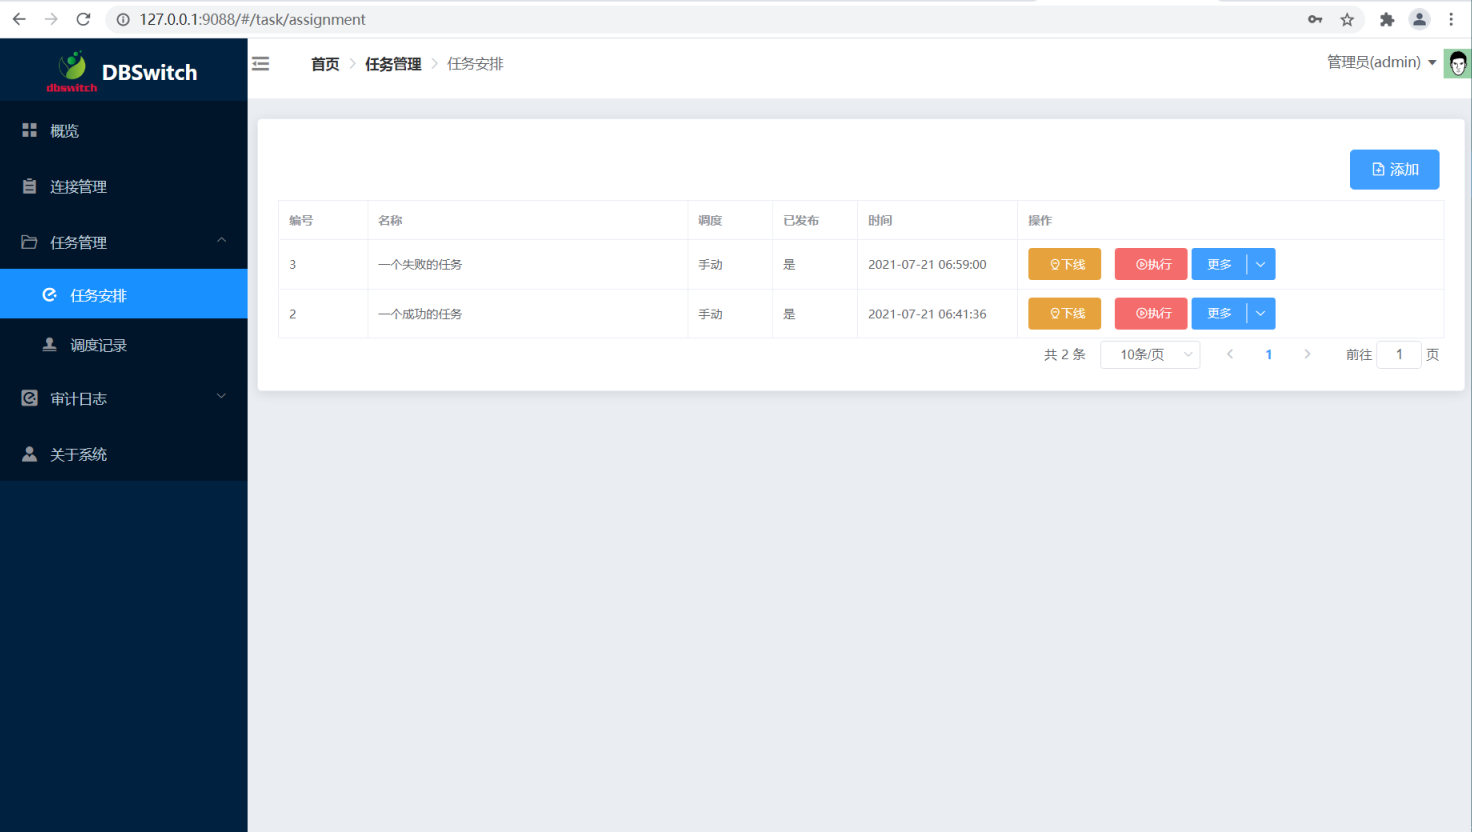
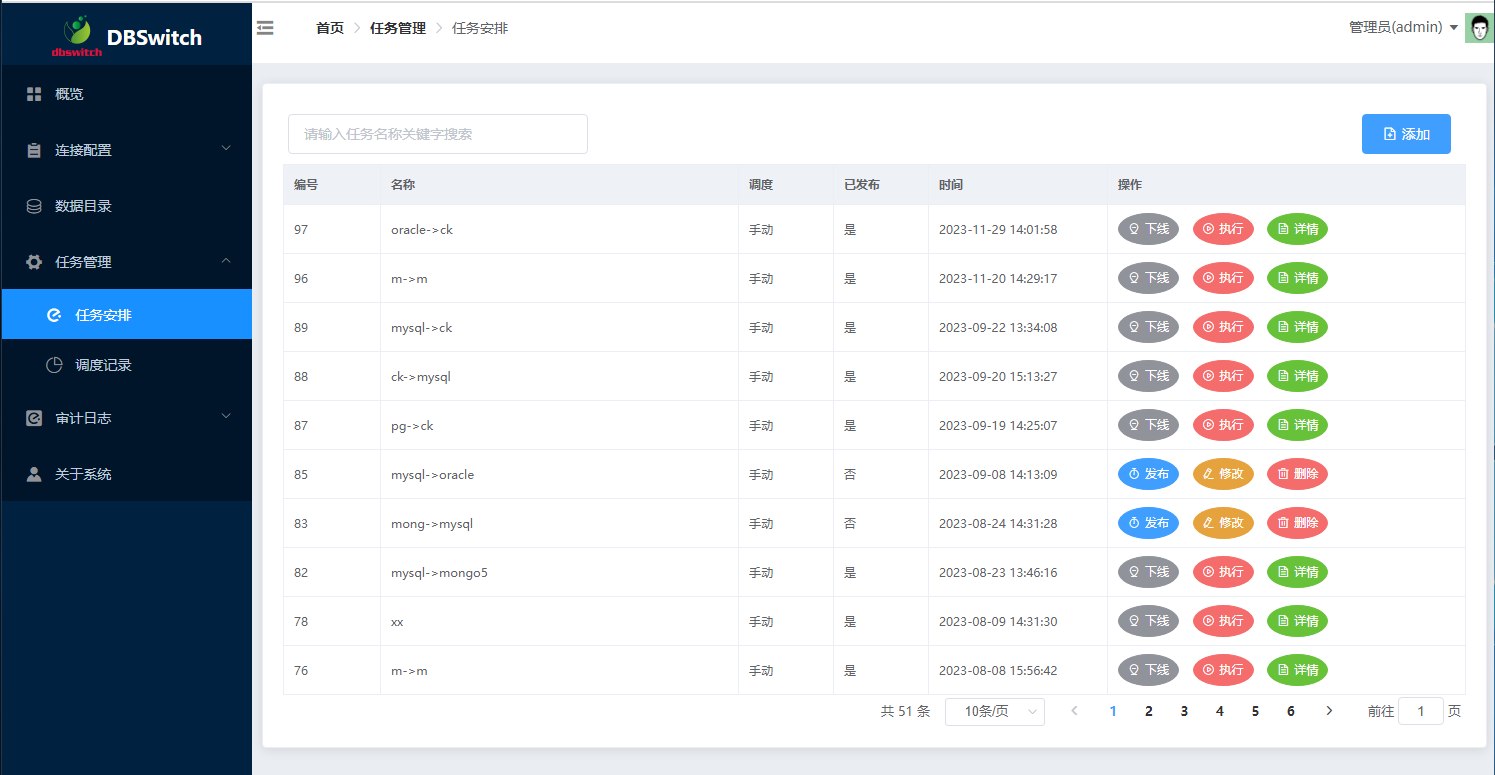
修复几个问题

diff --git a/dbswitch-admin/src/main/java/com/gitee/dbswitch/admin/service/ScheduleService.java b/dbswitch-admin/src/main/java/com/gitee/dbswitch/admin/service/ScheduleService.java
@@ -18,6 +18,7 @@ import com.gitee.dbswitch.admin.type.JobStatusEnum;
 import com.gitee.dbswitch.admin.type.ScheduleModeEnum;
 import com.gitee.dbswitch.common.event.TaskEventHub;
 import com.gitee.dbswitch.common.util.UuidUtils;
+import com.google.common.collect.Sets;
 import java.sql.Timestamp;
 import java.util.Map;
 import java.util.Objects;
@@ -111,13 +112,22 @@ public class ScheduleService {
     AssignmentTaskEntity task = assignmentTaskDAO.getById(taskId);
     if (ScheduleModeEnum.MANUAL == scheduleMode) {
       manualRunEvenHub.notify(evenName, taskId, jobKeyName);
-      //scheduleOnce(jobBuilder.storeDurably(false).build(), triggerKey);
     } else {
       scheduleCron(jobBuilder.storeDurably(true).build(), triggerKey, task.getCronExpression());
-    }
 
-    task.setJobKey(jobKeyName);
-    assignmentTaskDAO.updateById(task);
+      task.setJobKey(jobKeyName);
+      assignmentTaskDAO.updateById(task);
+    }
+  }
+
+  public void cancelManualJob(Long taskId) {
+    Sets.newHashSet(taskRunnableMap.values()).forEach(
+        runnable -> {
+          if (taskId == runnable.getTaskId()) {
+            runnable.interrupt();
+          }
+        }
+    );
   }
 
   public void cancelByJobKey(String jobKeyName) {
@@ -164,24 +174,6 @@ public class ScheduleService {
       assignmentJobDAO.updateSelective(assignmentJobEntity);
     }
   }
-
-//  private void scheduleOnce(JobDetail jobDetail, TriggerKey triggerKey) {
-//    Scheduler scheduler = schedulerFactoryBean.getScheduler();
-//    Trigger simpleTrigger = TriggerBuilder.newTrigger()
-//        .startAt(new Date())
-//        .withIdentity(triggerKey)
-//        .withSchedule(SimpleScheduleBuilder.simpleSchedule().withRepeatCount(0))
-//        .build();
-//
-//    try {
-//      scheduler.scheduleJob(jobDetail, simpleTrigger);
-//    } catch (SchedulerException e) {
-//      log.error("Quartz schedule task by manual failed, taskId: {}.",
-//          jobDetail.getJobDataMap().get(JobExecutorService.TASK_ID), e);
-//      throw new RuntimeException(e);
-//    }
-//
-//  }
 
   private void scheduleCron(JobDetail jobDetail, TriggerKey triggerKey, String cronExpression) {
     Scheduler scheduler = schedulerFactoryBean.getScheduler();

diff --git a/dbswitch-admin/src/main/java/com/gitee/dbswitch/admin/service/AssignmentService.java b/dbswitch-admin/src/main/java/com/gitee/dbswitch/admin/service/AssignmentService.java
@@ -85,8 +85,12 @@ public class AssignmentService {
         .convert(assignmentTaskDAO.getById(assignment.getId()));
   }
 
-  @Transactional(rollbackFor = Exception.class)
   public void deleteAssignment(Long id) {
+    AssignmentTaskEntity taskEntity = assignmentTaskDAO.getById(id);
+    if (null != taskEntity && null != taskEntity.getPublished() && taskEntity.getPublished()) {
+      throw new DbswitchException(ResultCode.ERROR_RESOURCE_HAS_DEPLOY,
+          "已经发布的任务需先下线后方可执行删除操作");
+    }
     assignmentTaskDAO.deleteById(id);
   }
 
@@ -194,7 +198,9 @@ public class AssignmentService {
       AssignmentTaskEntity assignmentTaskEntity = assignmentTaskDAO.getById(id);
       if (Objects.nonNull(assignmentTaskEntity.getPublished())
           && assignmentTaskEntity.getPublished()) {
-        scheduleService.cancelByJobKey(assignmentTaskEntity.getJobKey());
+        String jobKey = assignmentTaskEntity.getJobKey();
+        scheduleService.cancelByJobKey(jobKey);
+        scheduleService.cancelManualJob(id);
         assignmentTaskEntity.setPublished(Boolean.FALSE);
         assignmentTaskEntity.setContent("{}");
         assignmentTaskEntity.setJobKey("");

diff --git a/dbswitch-admin/src/main/java/com/gitee/dbswitch/admin/execution/ExecuteJobTaskRunnable.java b/dbswitch-admin/src/main/java/com/gitee/dbswitch/admin/execution/ExecuteJobTaskRunnable.java
@@ -30,6 +30,7 @@ import java.sql.Timestamp;
 import java.util.concurrent.ExecutionException;
 import java.util.concurrent.TimeUnit;
 import java.util.concurrent.locks.ReentrantLock;
+import lombok.Getter;
 import lombok.extern.slf4j.Slf4j;
 import org.springframework.core.task.AsyncTaskExecutor;
 
@@ -55,7 +56,7 @@ public class ExecuteJobTaskRunnable implements Runnable {
 
   private AsyncTaskExecutor migrationTaskExecutor;
 
-  private Long taskId;
+  @Getter private Long taskId;
 
   private Integer schedule;
 

diff --git a/dbswitch-common/src/main/java/com/gitee/dbswitch/common/util/ObjectCastUtils.java b/dbswitch-common/src/main/java/com/gitee/dbswitch/common/util/ObjectCastUtils.java
@@ -1,5 +1,6 @@
 package com.gitee.dbswitch.common.util;
 
+import cn.hutool.core.codec.Base64;
 import cn.hutool.json.JSONUtil;
 import java.io.ByteArrayOutputStream;
 import java.io.ObjectOutputStream;
@@ -829,6 +830,8 @@ public final class ObjectCastUtils {
       return in.toString();
     } else if (in instanceof java.sql.Clob) {
       return clob2Str((java.sql.Clob) in);
+    } else if (in instanceof java.sql.Blob) {
+      return Base64.encode(blob2Bytes((java.sql.Blob) in));
     } else if (in instanceof java.lang.Number) {
       return in.toString();
     } else if (in instanceof java.sql.RowId) {

diff --git a/dbswitch-core/src/main/java/com/gitee/dbswitch/util/GenerateSqlUtils.java b/dbswitch-core/src/main/java/com/gitee/dbswitch/util/GenerateSqlUtils.java
@@ -100,7 +100,7 @@ public final class GenerateSqlUtils {
 
     sb.append(")");
     if (type.isLikeMysql()) {
-      sb.append("ENGINE=InnoDB DEFAULT CHARSET=utf8 COLLATE=utf8_bin");
+      sb.append("ENGINE=InnoDB DEFAULT CHARSET=utf8mb4 COLLATE=utf8mb4_bin");
       if (withRemarks && StringUtils.isNotBlank(tableRemarks)) {
         sb.append(String.format(" COMMENT='%s' ", tableRemarks.replace("'", "\\'")));
       }

diff --git a/dbswitch-data/src/main/java/com/gitee/dbswitch/data/config/DbswichProperties.java b/dbswitch-data/src/main/java/com/gitee/dbswitch/data/config/DbswichProperties.java
@@ -25,7 +25,7 @@ import org.springframework.context.annotation.PropertySource;
  */
 @Configuration
 @Data
-@ConfigurationProperties(prefix = "dbswitch", ignoreUnknownFields = false)
+@ConfigurationProperties(prefix = "dbswitch")
 @PropertySource(
     value = {"classpath:config.properties", "classpath:config.yml", "classpath:config.yaml"},
     ignoreResourceNotFound = true,

diff --git a/dbswitch-data/src/main/java/com/gitee/dbswitch/data/entity/TargetDataSourceProperties.java b/dbswitch-data/src/main/java/com/gitee/dbswitch/data/entity/TargetDataSourceProperties.java
@@ -29,7 +29,7 @@ public class TargetDataSourceProperties {
   private CaseConvertEnum columnNameCase = CaseConvertEnum.NONE;
   private Boolean targetDrop = Boolean.TRUE;
   private Boolean onlyCreate = Boolean.FALSE;
-  private Boolean createTableAutoIncrement = Boolean.TRUE;
+  private Boolean createTableAutoIncrement = Boolean.FALSE;
   private Boolean writerEngineInsert = Boolean.FALSE;
   private Boolean changeDataSync = Boolean.FALSE;
 }

diff --git a/dbswitch-product/dbswitch-product-sqlite/src/main/java/com/gitee/dbswitch/product/sqlite/SqliteMetadataQueryProvider.java b/dbswitch-product/dbswitch-product-sqlite/src/main/java/com/gitee/dbswitch/product/sqlite/SqliteMetadataQueryProvider.java
@@ -124,7 +124,7 @@ public class SqliteMetadataQueryProvider extends AbstractMetadataProvider {
         if (null != pks && !pks.isEmpty() && pks.contains(fieldname)) {
           // 关键字 AUTOINCREMENT 只能⽤于整型（INTEGER）字段。
           if (useAutoInc) {
-            retval += "INTEGER PRIMARY KEY AUTOINCREMENT";
+            retval += "INTEGER AUTOINCREMENT";
           } else {
             retval += "BIGINT ";
           }

diff --git a/README.md b/README.md
@@ -1,5 +1,10 @@
 # 异构数据库数据与结构同步工具
 
+![](https://gitee.com/inrgihc/dbswitch/badge/star.svg)
+![](https://gitee.com/inrgihc/dbswitch/badge/fork.svg?theme=gvp)
+
+![dbswitch](https://gitee.com/dromara/dbswitch/raw/master/dbswitch-admin-ui/src/assets/logo.png#pic_center)
+
 ## 一、工具介绍
 
 ### 1、功能描述